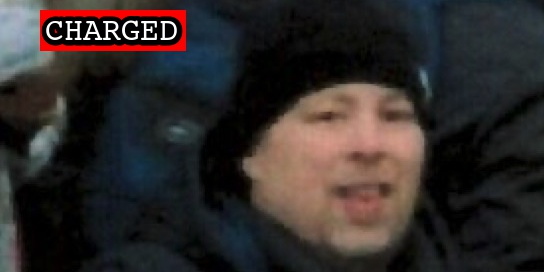
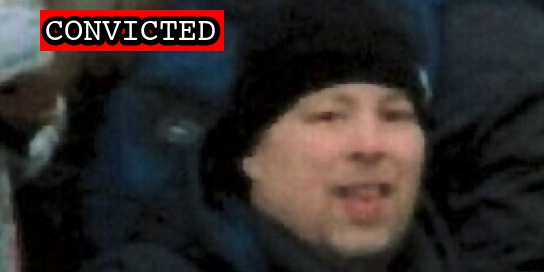
Latest import

Changed region(s): [[0.0938, 0.0294, 0.4375, 0.2059]]

diff --git a/docs/_suspects/rafael-valadez.md b/docs/_suspects/rafael-valadez.md
@@ -4,15 +4,17 @@ lastName: Valadez
 hashtag:
 aka:
 residence: California
-status: Charged
+status: Convicted
 date: 2021-11-09
 charged: 2021-11-09
 indicted:
-convicted:
+convicted: 2022-07-01
+acquitted:
 sentenced:
 dismissed:
 deceased:
-plea_hearing:
+plea_hearing: 2022-07-01
+trial_date:
 sentencing:
 age:
 occupation:
@@ -31,11 +33,17 @@ description: Click for latest case details. Suspects innocent until proven guilt
 author: seditiontrack
 layout: suspect
 published: true
-caseNumber: 1:21-mj-695
+caseNumber: 1:21-cr-695
 videos:
 charges:
+- code: 40 USC § 5104(e)(2)(G)
+  title: Parading, demonstrating or picketing in a Capitol building
+  url: https://www.law.cornell.edu/uscode/text/40/5104
+  felony: false
 sentence:
 ---
 - [Complaint](https://www.justice.gov/usao-dc/case-multi-defendant/file/1458966/download)
 - [Information](https://www.justice.gov/usao-dc/case-multi-defendant/file/1458961/download)
 - [Statement of Facts](https://www.justice.gov/usao-dc/case-multi-defendant/file/1458971/download)
+- [Plea Agreement](https://www.justice.gov/usao-dc/case-multi-defendant/file/1517241/download)
+- [Statement of Offense](https://www.justice.gov/usao-dc/case-multi-defendant/file/1517246/download)

diff --git a/docs/_suspects/athanasios-zoyganeles.md b/docs/_suspects/athanasios-zoyganeles.md
@@ -4,15 +4,17 @@ lastName: Zoyganeles
 hashtag:
 aka:
 residence: Illinois
-status: Charged
+status: Convicted
 date: 2022-02-18
 charged: 2022-02-18
 indicted:
-convicted:
+convicted: 2022-07-01
+acquitted:
 sentenced:
 dismissed:
 deceased:
-plea_hearing:
+plea_hearing: 2022-07-01
+trial_date:
 sentencing:
 age: 44
 occupation:
@@ -34,8 +36,15 @@ published: true
 caseNumber:
 videos:
 charges:
+- code: 40 USC § 5104(e)(2)(G)
+  title: Parading, demonstrating or picketing in a Capitol building
+  url: https://www.law.cornell.edu/uscode/text/40/5104
+  felony: false
 sentence:
 ---
 - [News Report](https://chicago.suntimes.com/metro-state/2022/2/22/22946601/feds-arrest-man-who-says-he-stayed-front-lines-during-capitol-breach)
 - [Complaint](https://www.justice.gov/usao-dc/case-multi-defendant/file/1475901/download)
 - [Statement of Facts](https://www.justice.gov/usao-dc/case-multi-defendant/file/1475906/download)
+- [Information](https://www.justice.gov/usao-dc/case-multi-defendant/file/1516961/download)
+- [Plea Agreement](https://www.justice.gov/usao-dc/case-multi-defendant/file/1516966/download)
+- [Statement of Offense](https://www.justice.gov/usao-dc/case-multi-defendant/file/1516971/download)
